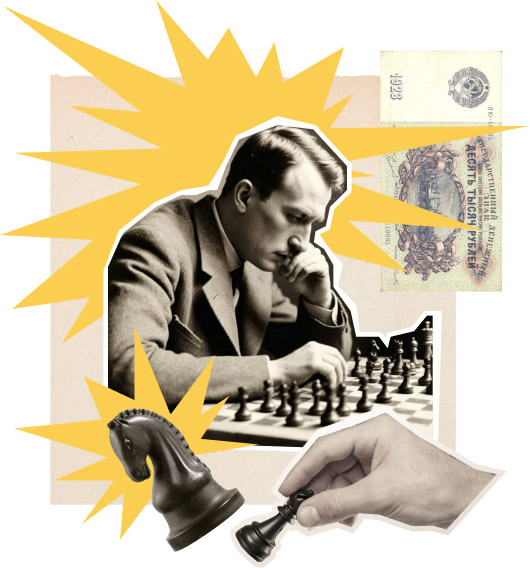
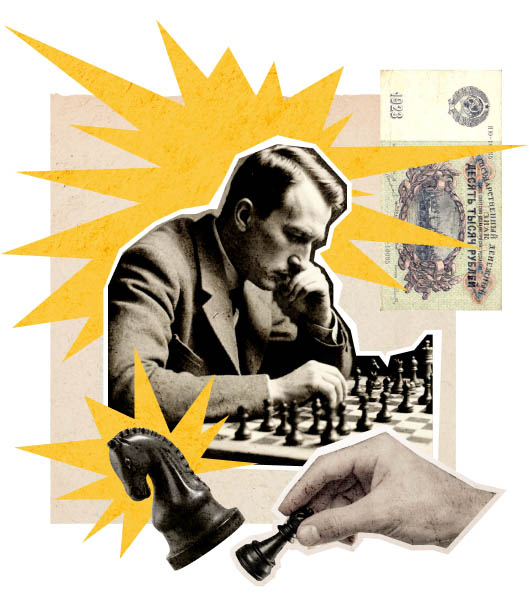
Правки по участникам

diff --git a/blocks/tournamentInfo/__table/tournamentInfo__table.css b/blocks/tournamentInfo/__table/tournamentInfo__table.css
@@ -1,9 +1,8 @@
 .tournamentInfo__table {
   font-size: 20px;
   color: #313131;
-  padding: 15px;
+  padding: 15px 0 5px 20px;
   border-bottom: 2px solid #D0D0D0;
-  margin: 0;
 }
 
 .tournamentInfo__table:nth-child(odd) {

diff --git a/blocks/tournamentStages/tournamentStages.css b/blocks/tournamentStages/tournamentStages.css
@@ -1,7 +1,7 @@
 .tournamentStages {
   /* position: relative; */
   max-width: 1222px;
-  margin: 0 auto;
+  margin: 175px auto 0;
 }
 /* @media (width >= 850px) {
   .tournamentStages {

diff --git a/blocks/tournamentStages/__list-container/tournamentStages__list-container.css b/blocks/tournamentStages/__list-container/tournamentStages__list-container.css
@@ -26,7 +26,7 @@
   .tournamentStages__list-container::after {
     width: 400px;
     height: 235px;
-    bottom: -10px;
+    bottom: -1px;
     right: -60px;
     top: unset;
   }

diff --git a/blocks/tournamentStages/__title/tournamentStages__title.css b/blocks/tournamentStages/__title/tournamentStages__title.css
@@ -1,7 +1,7 @@
 .tournamentStages__title {
   font-size: 54px;
   line-height: 1.2;
-  margin: 0;
+  margin: 0 0 55px 0;
 }
 @media (width <= 550px) {
   .tournamentStages__title {

diff --git a/blocks/tournamentStages/__list/tournamentStages__list.css b/blocks/tournamentStages/__list/tournamentStages__list.css
@@ -27,7 +27,6 @@
   .tournamentStages__list {
     gap: 20px;
     width: 100%;
-    margin: 50px 0 28px 0;
   }
 }
 @media (850px <= width < 1222px) {

diff --git a/blocks/tournamentInfo/__collage/tournamentInfo__collage.css b/blocks/tournamentInfo/__collage/tournamentInfo__collage.css
@@ -2,5 +2,5 @@
   display: block;
   width: 520px;
   /* max-height: 528px; */
-  margin: 40px 0 0 -22px;
+  margin: 20px 0 0 -20px;
 }

diff --git a/blocks/tournamentInfo/__container/tournamentInfo__container.css b/blocks/tournamentInfo/__container/tournamentInfo__container.css
@@ -1,8 +1,4 @@
-
-
-
 .tournamentInfo__container{
-overflow: hidden;
 display: flex;
 flex-direction: row;
 width: 100%;

diff --git a/blocks/tournamentStages/__title-container/tournamentStages__title-container.css b/blocks/tournamentStages/__title-container/tournamentStages__title-container.css
@@ -2,5 +2,4 @@
   display: flex;
   flex-flow: row wrap;
   max-width: min(100%, 800px);
-  margin-top: 200px;
 }
